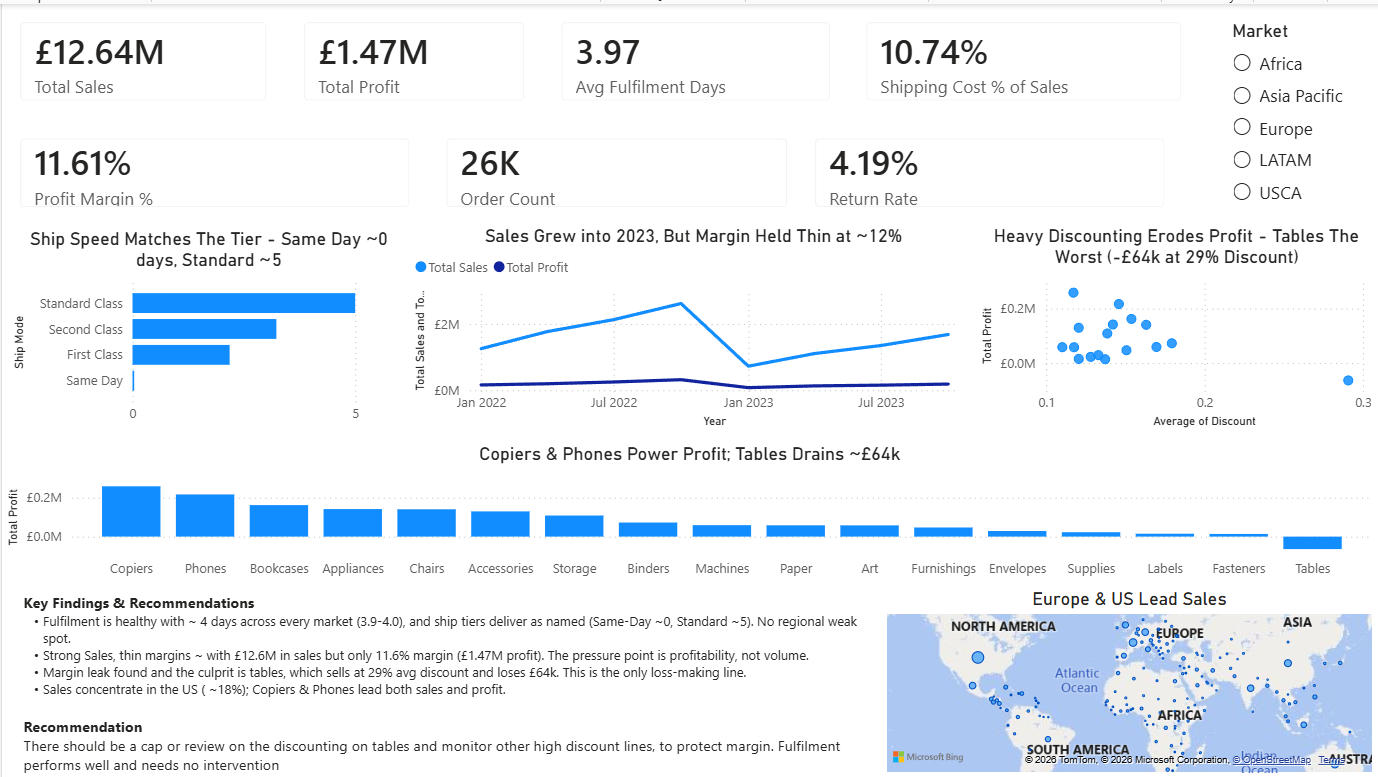
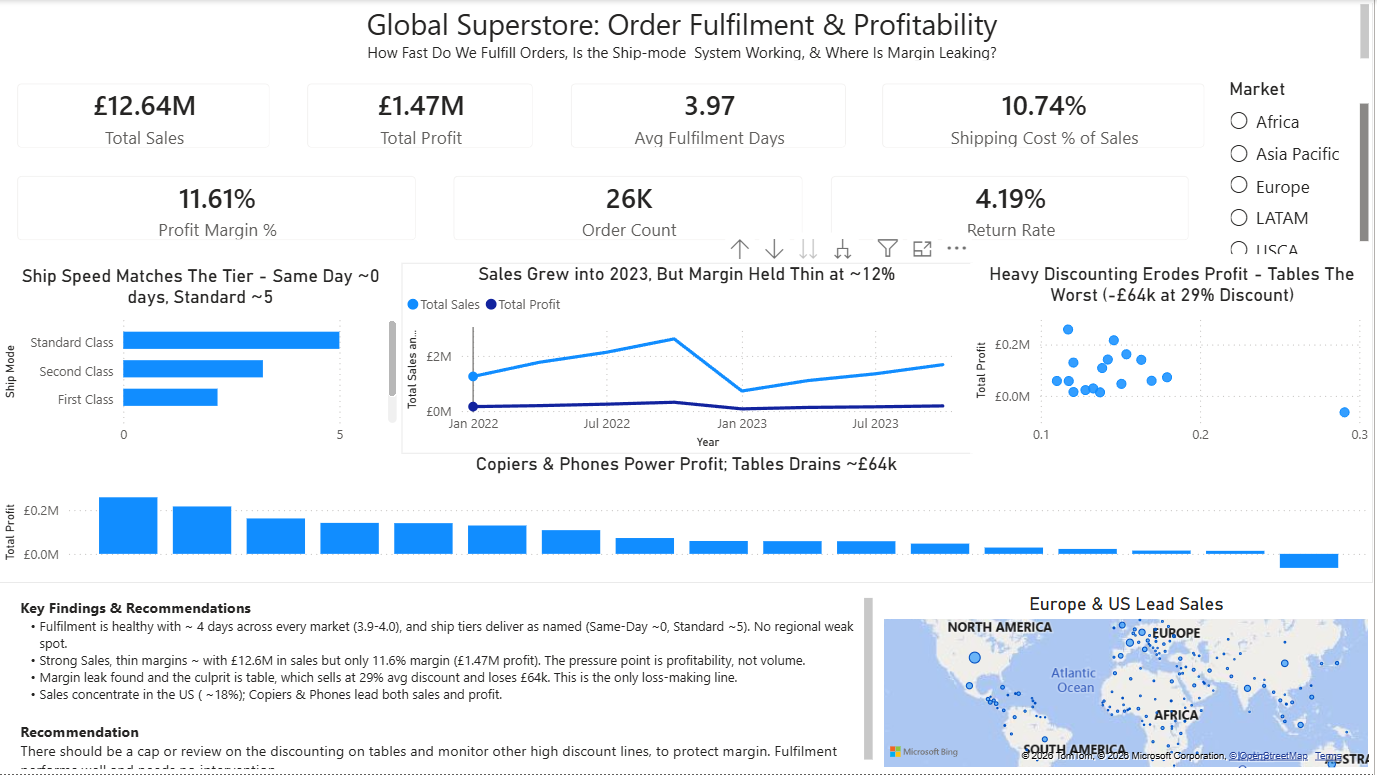
Add DataCo centrepiece page; update Superstore screenshot with title

diff --git a/projects/dataco-late-delivery.md b/projects/dataco-late-delivery.md
@@ -1,0 +1,94 @@
+---
+layout: default
+title: DataCo Smart Supply Chain — Late Delivery and OTIF Risk
+---
+
+# Late Delivery and OTIF Risk (Power BI)
+
+**Tool:** Power BI Desktop · **Dataset:** DataCo Smart Supply Chain, 180,519
+order lines, 65,752 orders, January 2015 to January 2018 · **Built:** June 2026
+
+[← Back to home](../)
+
+![DataCo late delivery and OTIF dashboard, built in Power BI](../assets/screenshots/dataco.png)
+
+## The question
+
+The Head of Supply Chain wants one decision answered: where are we breaking
+delivery promises, what is it costing us, and which lever, shipping mode, region
+or product category, do we pull first? Every visual on the page earns its place
+by moving that decision.
+
+## What I built
+
+1. **Get Data.** Text/CSV import with File Origin set to 1252, because the file
+   is Latin-1 and UTF-8 mangles a few text fields. Type detection turned off so
+   types were set on purpose, not guessed from the first 200 rows.
+2. **Power Query (ETL).** The two date columns failed a plain conversion: the
+   dates are US format (M/D/YYYY) against a UK locale, so the whole column went
+   to error. Fixed with Change Type using Locale, Date/Time, English (United
+   States). Set the shipping-day and flag columns to whole number, sales and
+   profit to decimal, and added a calculated column
+   `Schedule Variance = [Days for shipping (real)] - [Days for shipment (scheduled)]`.
+3. **DAX.** Four measures: Late Delivery Rate (`AVERAGE` of the 1/0 flag),
+   On-Time Rate (`1 -` the late rate), Avg Schedule Variance, and Late Order
+   Profit at Risk (`CALCULATE` of profit filtered to late orders).
+4. **Verified the flag before trusting it.** A Delivery Status by Late Delivery
+   Rate table proved the 1/0 flag is a perfect mirror of the text status, Late
+   at 100% and everything else at 0%, before any analysis was built on it.
+5. **Visuals.** Four KPI cards, late rate by shipping mode, a late-rate trend on
+   a zero-based axis, late rate by region, late rate by category, a country map,
+   and slicers for Market, Shipping Mode and Year.
+6. **Narrative.** Interpret-not-describe titles on every chart plus a Key
+   Findings and Recommendation panel.
+
+## Verified headline numbers
+
+| KPI | Value |
+|---|---|
+| Late Delivery Rate | 54.83% (98,977 of 180,519 order lines) |
+| On-Time Rate (OTIF proxy) | 45.17% |
+| Avg Schedule Variance | 0.57 days |
+| Profit on late orders | $2.14 million, about 54% of total profit |
+| First Class late rate | 95.3% |
+| Standard Class late rate | 38.1% |
+
+## Findings and recommendation
+
+More than half of all orders break their delivery promise, 54.8%, and it has
+held flat near 55% every full year from 2015 to 2017. This is structural, not a
+recent slip. The promise breaks often but by a hair: the average schedule slip
+is only 0.57 days.
+
+The lever is shipping mode. First Class is 2.5 times more likely to be late than
+Standard, 95.3% against 38.1%. The driver is not the warehouse: real fulfilment
+time barely varies by mode, around two days. What varies is the promise. First
+Class is sold as a one-day service but the operation reliably takes two, so it
+is late by design. This is a promise-setting failure, not an operations failure.
+
+Region is the control that proves it. Late delivery is uniform across regions,
+49% to 58%, and the country map is near-even. The problem follows the promise,
+not the place. One secondary lever is worth a look: Golf Bags and Carts run 14
+points above average at 69%.
+
+Recommendation: re-baseline the First Class promised lead time to match the real
+two-day fulfilment. Fixing the promise collapses the headline rate without
+touching the warehouse, and de-risks the $2.14 million in profit tied to late
+orders. Investigate Golf Bags and Carts as a separate category issue.
+
+## Why this is the centrepiece
+
+Most analytics portfolios run on the same handful of datasets. This one is built
+on data most candidates do not touch, framed around a single operational
+decision, with sector KPIs a supply-chain stakeholder actually tracks: late
+rate, on-time-in-full and profit at risk. The titles and the recommendation are
+my own reasoning, written on the canvas.
+
+## Skills
+
+1252 encoding and locale-aware date parsing in M · calculated column ·
+four DAX measures (`AVERAGE`, `CALCULATE`) · flag-versus-status verification
+before building · KPI, sorted bar, line, choropleth and slicer visuals ·
+axis honesty, catching a sum-versus-rate error and a misleading zoomed axis on
+the trend · reconciliation, checking every sliced view back to the 54.8% anchor ·
+source-verified every figure.

diff --git a/index.md b/index.md
@@ -18,6 +18,19 @@ act on, not a description of the chart.
 
 ## Selected work
 
+### [DataCo Smart Supply Chain — Late Delivery and OTIF (Power BI)](projects/dataco-late-delivery.html)
+
+[![DataCo late delivery and OTIF dashboard](assets/screenshots/dataco.png)](projects/dataco-late-delivery.html)
+
+The differentiated centrepiece, built on data most candidates do not use:
+180,519 supply-chain order lines. More than half of all orders broke their
+delivery promise, and it held flat near 55% for three years, so the problem is
+structural. The lever was shipping mode. First Class ran late 95% of the time
+against Standard's 38%, because it is sold as a one-day service but reliably
+takes two. A promise-setting problem, not a warehouse one. Recommendation:
+re-baseline the First Class lead time and de-risk the $2.14 million in profit
+tied to late orders.
+
 ### [Superstore — Order Fulfilment and Profitability (Power BI)](projects/superstore-fulfilment.html)
 
 [![Superstore Order Fulfilment dashboard](assets/screenshots/superstore.png)](projects/superstore-fulfilment.html)
@@ -61,11 +74,6 @@ partnership decision should focus.
 A worked set of 31 SQL questions covering joins, subqueries and CASE logic,
 with a reference cheat sheet. The grounding behind the measures in the Power BI
 work.
-
-### DataCo Smart Supply Chain — Late Delivery (Power BI) *(in progress)*
-The differentiated centrepiece, built on data most candidates do not use. Late
-delivery rate, on-time-in-full and profit-at-risk over roughly 180,000 rows.
-Going live this weekend.
 
 ---
 